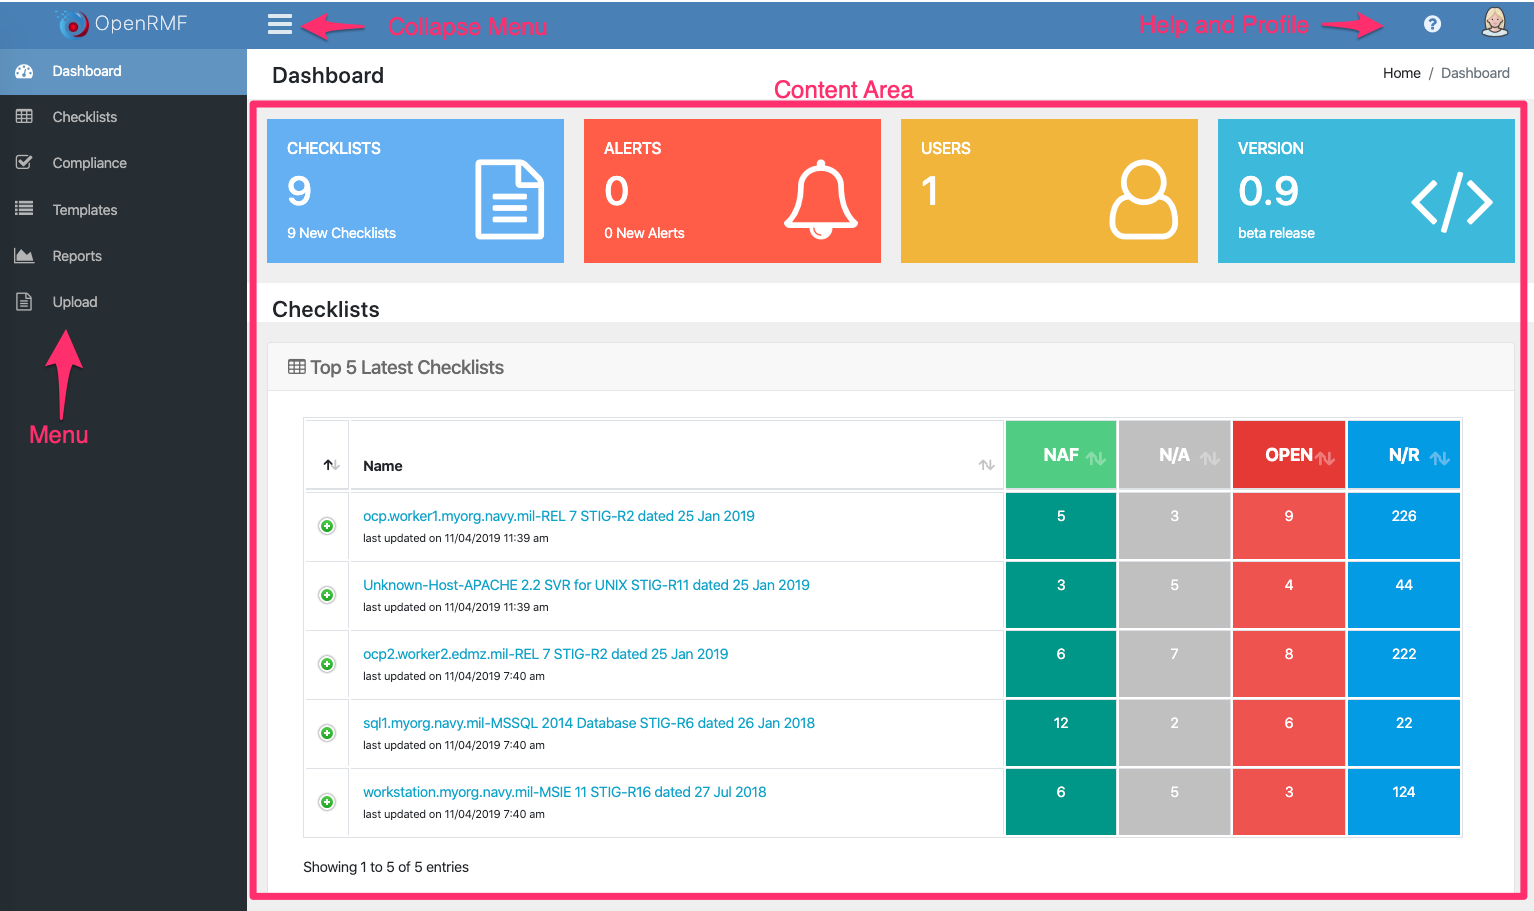
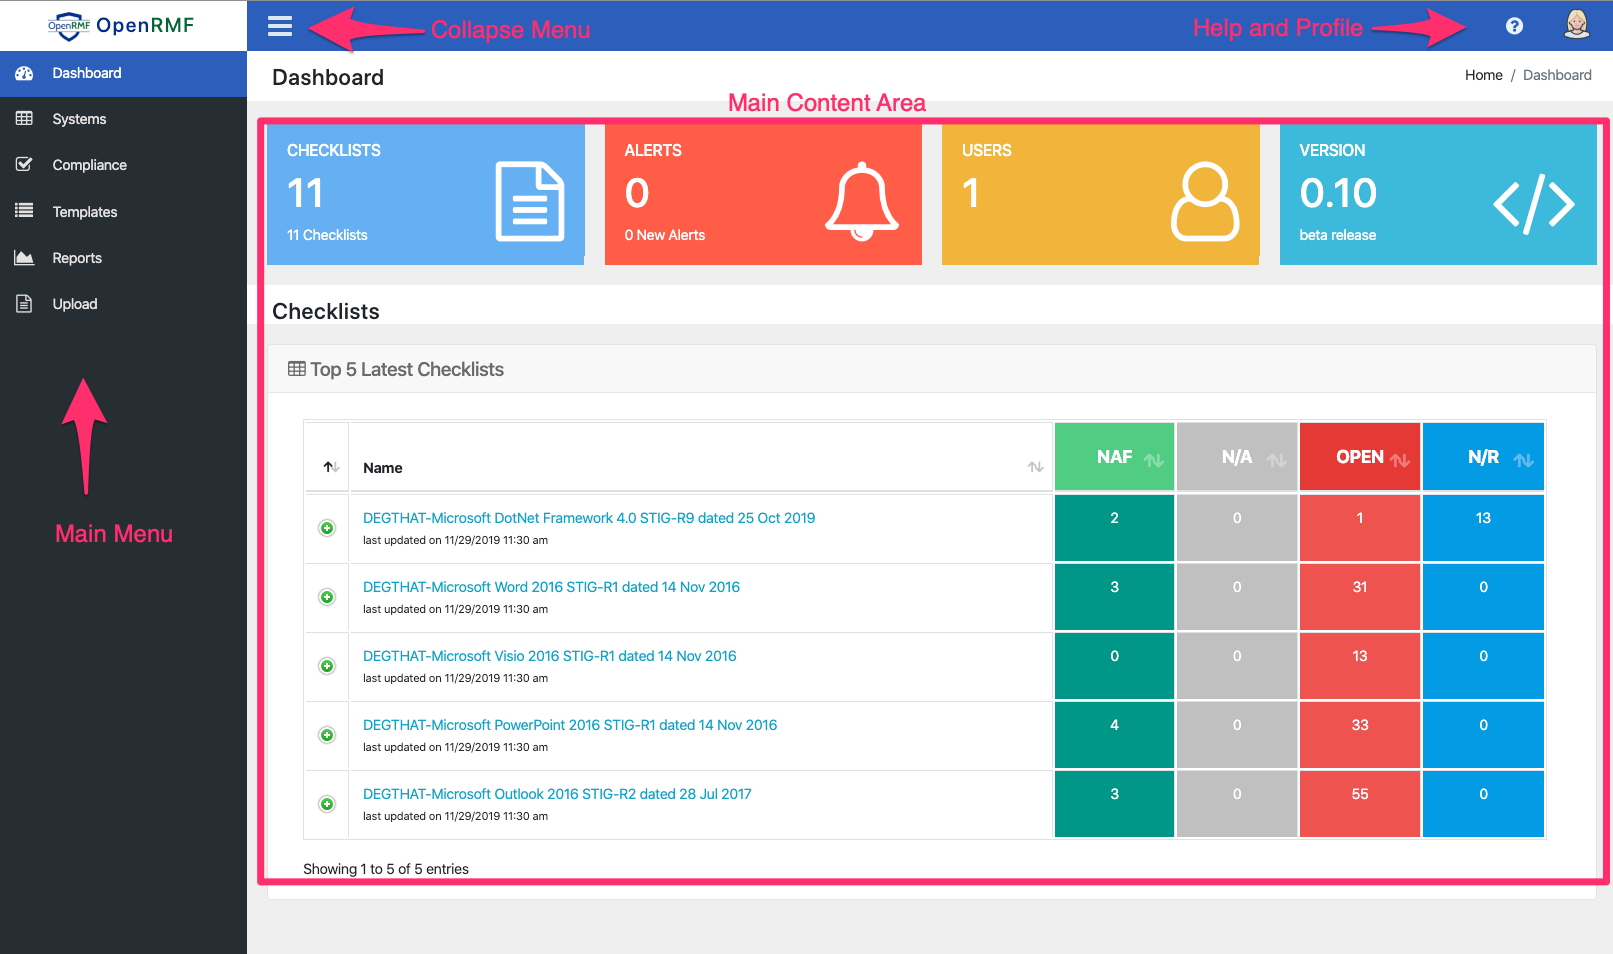
Updated documentation for v 0.10

diff --git a/docs/compliance.md b/docs/compliance.md
@@ -1,5 +1,5 @@
 ---
-title: Step 4 - Compliance Report
+title: Step 5 - Compliance Report
 nav_order: 400
 ---
 
@@ -7,13 +7,21 @@ nav_order: 400
 
 ![OpenRMF Compliance Generator](/assets/compliance.png)
 
-Running a compliance report across all your checklists is a gigantic effort. If you do this across all Checklist files using the Java Viewer this can be quite time consuming. Or you have to keep track of the data in yet another media format such as MS Word or Excel. 
+Running a compliance report across all your checklists is a gigantic effort when done manually! If you do this across all Checklist files using the Java Viewer this can be quite time consuming. Or you have to keep track of the data in yet another media format such as MS Word or Excel. 
 
 When all your checklists are in OpenRMF, you can run a compliance report against the impact level (Low, Moderate, High) as well as the inclusion of personally identifiable information (PII) for your system. Choose your system and the pertinent details and click the Generate button. In a matter of seconds you have a listing of compliance against all your checklists for the relevant NIST controls. 
+
+There is a summary presented that gives you an overall compliance by family. And below that there is a detailed view by control linked to the checklists. 
 
 
 ## Viewing Compliance Results
 
 The data in the compliance report is presented in a filterable table that is common across OpenRMF. Pagination is in the bottom right corner and there is a search filter at the top right of the table as well to quickly find your information. 
 
+![OpenRMF Compliance Details](/assets/compliance-detail.png)
+
 Each result is grouped per NIST major control and is color coded according to the overall status of that control within the checklist. Click on the checklist in the compliance result table to quickly view the checklist through the lens of *only* that control with a filtered vulnerability listing relevant only to that control. This allows you to view the vulnerability items that remain open or not reviewed to quickly tackle your RMF action items. 
+
+## Compliance Color Coding Rules
+
+For compliance, a green color means all the vulnerabilities for that control are either Not a Finding or marked as Not Applicable. If 1 vulnerability is marked as Open, then that whole group is Open. And if there are any vulnerabilities that are Not Reviewed with no Open vulnerabilities for that group, then the whole group is marked as Not Reviewed.

diff --git a/docs/systems.md b/docs/systems.md
@@ -1,0 +1,23 @@
+---
+title: Step 3 - View Systems
+nav_order: 300
+has_children: true
+---
+
+# Viewing your Systems
+
+![OpenRMF System List](/assets/system-listing.png)
+
+The System listing is available when you log in and click on Systems in the menu. The above screen loads if there are any checklists loaded. Each system is listed with the title linked to the detailed Systems page with information and checklists listed.
+
+> Note: if no checklists are loaded then you are automatically redirected to the Upload page.
+
+Each listing shows the title, the number of checklists in that system as well as the overall score of the system.  This overall score is based on status across all checklists in your system.
+
+## System Detailed View
+
+The System detailed page shows televant system information such as the title and description. It also allows you to edit information if you have the correct role. There is detailed audit information on the right such as the create date and last date updated. The compliance date is updated each time you run a compliance report on the system.
+
+![OpenRMF Checklist Details](/assets/system-record.png)
+
+At the bottom of this page is the list of all checklists for this system linked by title. Their overall score is also displayed in the filtered table. Click the plus sign to expand the score by category of vulnerability to get more detailed information.  Click on the actual checklist title to view the detailed information on that checklist.

diff --git a/docs/checklists.md b/docs/checklists.md
@@ -1,24 +1,10 @@
 ---
-title: Step 3 - View Checklists
-nav_order: 300
+title: Step 4 - View Checklists
+nav_order: 350
 has_children: true
 ---
 
-# Viewing your Systems and Checklists
-
-![OpenRMF System List](/assets/system-listing.png)
-
-The System listing is available when you log in and click on Checklists in the menu. The above screen loads if there are any checklists loaded. FOr now, this is a fairly simple page with the System Name and number of checklists. Improvements on this page will be made in future releases.
-
-Note: if no checklists are loaded then you are automatically redirected to the Upload page.
-
-![OpenRMF Checklist List](/assets/checklist-listing.png)
-
-On the Systems listing page click the button next to the system with the checklists and you will be taken to a table listing all checklists. The initial page shows 50 at a time and has pagination at the bottom right of the screen. There is also a filter you can type into and automatically filter the listing of checklists for that system. 
-
-Each row of the listing shows the total count of items per checklist by status of Not a Finding, Not Applicable, Open, and Not Reviewed. Click the green plus sign to the left and that total number is broken down by item category. The last update date is also listed. Click the linked title to view the detailed record of the checklist.
-
-## Checklist Detailed View
+# Checklist Detailed View
 
 ![OpenRMF Checklist Details](/assets/checklist-record.png)
 

diff --git a/docs/whatsnew.md b/docs/whatsnew.md
@@ -1,11 +1,23 @@
 ---
-title: What's New in v0.9
+title: What's New in v0.10
 nav_order: 2
 ---
 
 # What's New with OpenRMF
 
-The latest version is 0.9. With this comes a few new updates listed below:
+The latest version is version 0.10. The recent updates are below:
+* New look and feel with updated logo
+* Systems page showing all info on a system
+* Reworked the System page for quick look at systems and status at a glance
+* Ability to have a description and title of a system, as well as last recorded compliance generation date
+* Setup NATS client to auto reconnect, log on disconnect
+* Import of Nessus File to keep with the System -- Export back out
+* Summary Compliance Report by Family when generating compliance report
+* Update to 0.10 of the NATS C# client
+* Prometheus export for NATS and documentation on showing in Grafana
+* Updated Documentation
+
+Version 0.9 had a few new updates listed below:
 * Importing of SCAP scans in XCCDF format (*.xml) for creating new checklists
 * Improved popup help throughout
 * Deleting checklists from the listing page
